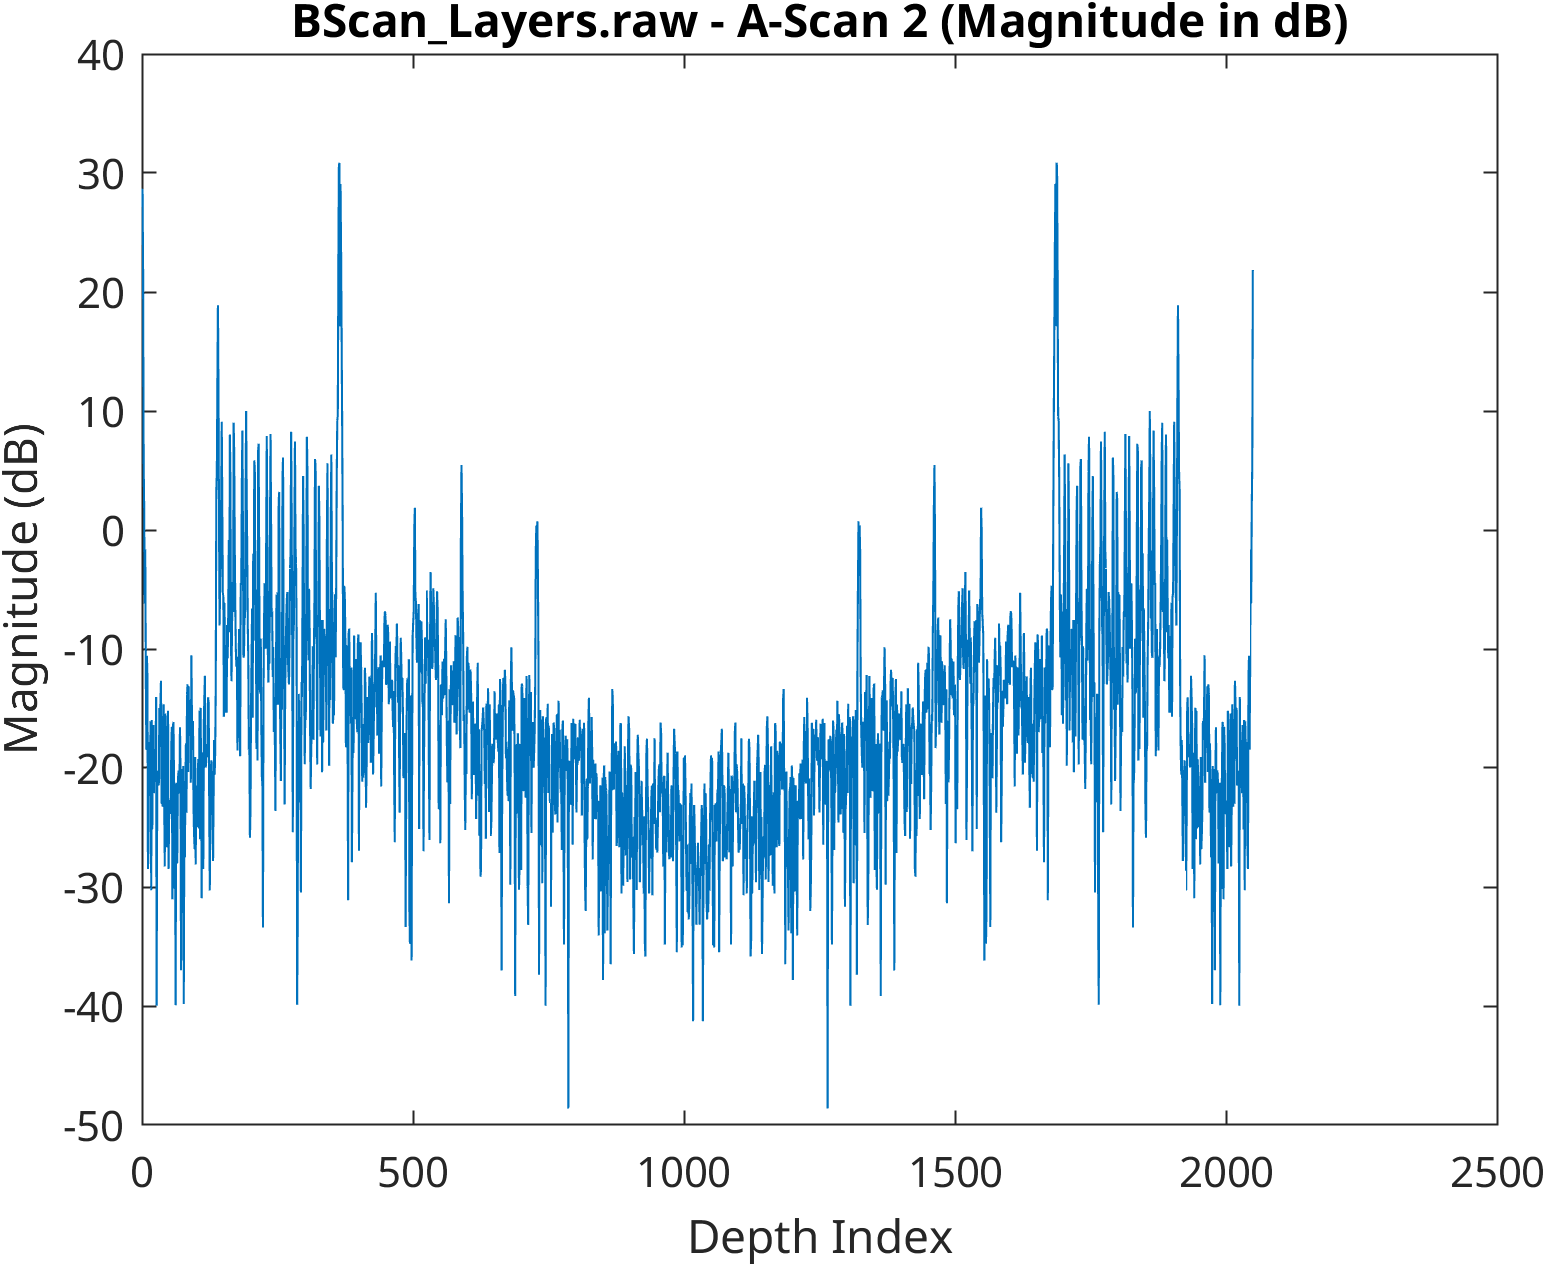
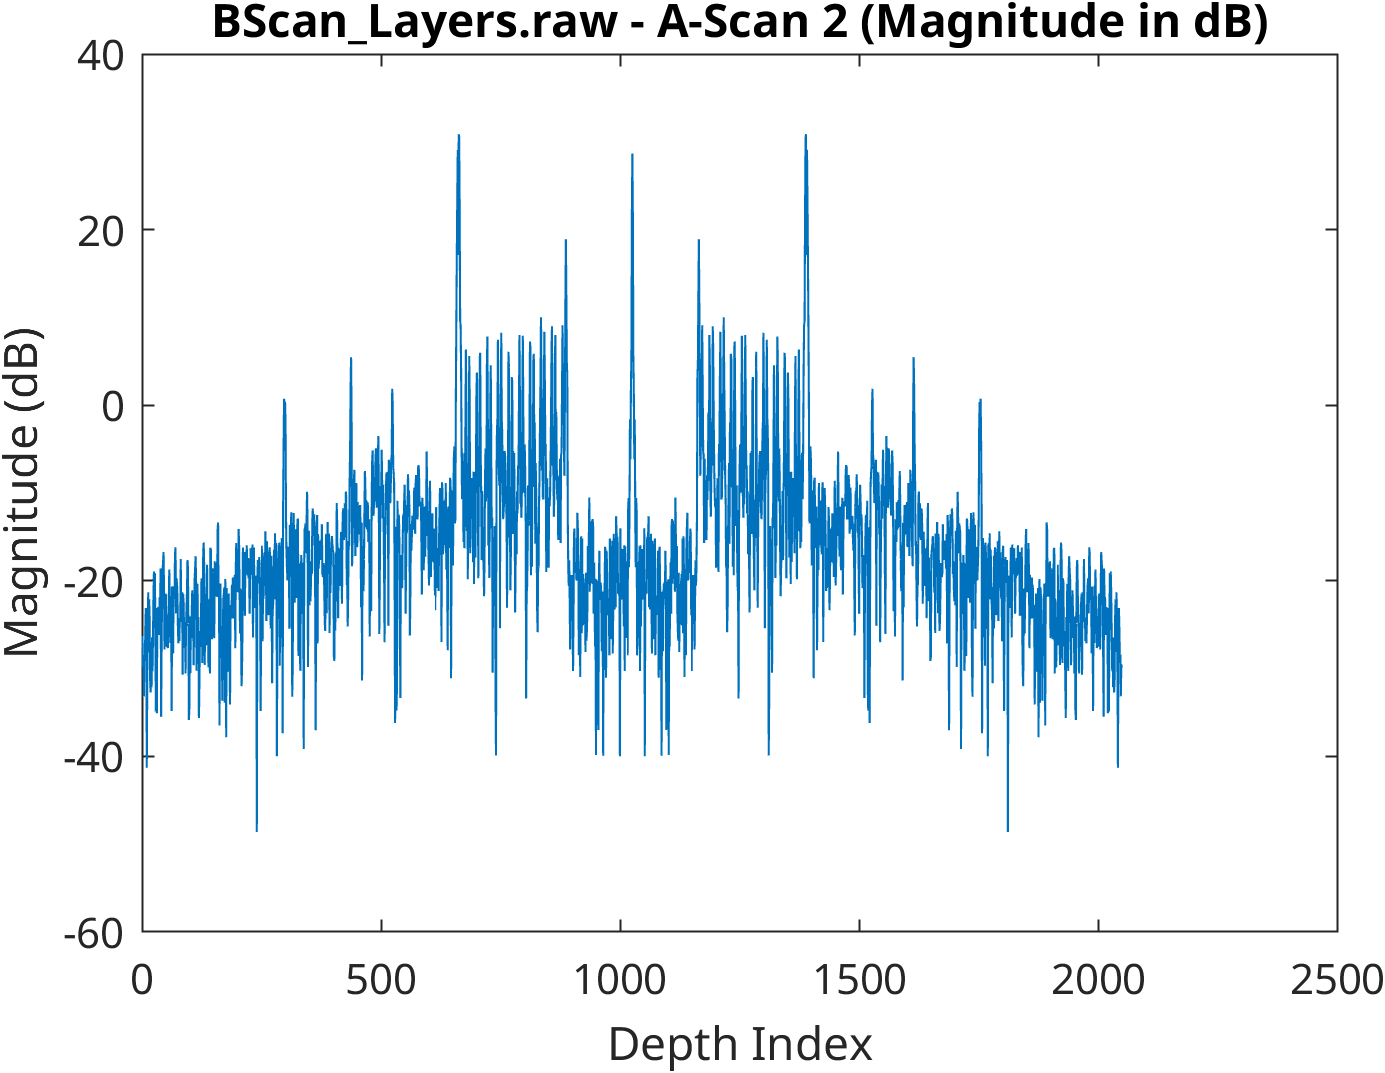
med img a scan

diff --git a/medical-imaging/project_2/the_A_Scan.m b/medical-imaging/project_2/the_A_Scan.m
@@ -17,43 +17,66 @@ load('project-files/L2K.mat', 'L2K');
 fprintf('\nProcessing BScan_Layers.raw...\n');
 [BScan_B, timing_B] = generateBScan(BScan_raw, N_axial, D_BScan, L2K, true, true, true);
 
+fprintf('\nProcessing BScan_Layers.raw with no deconvolution and no background subtraction...\n');
+[Bscan_B_no_deconv_no_bgs, timing_B_no_deconv_no_bgs] = generateBScan(BScan_raw, N_axial, D_BScan, L2K, false, false, false);
+
+fprintf('\nProcessing BScan_Layers.raw with no deconvolution...\n');
+[Bscan_B_no_deconv, timing_B_no_deconv] = generateBScan(BScan_raw, N_axial, D_BScan, L2K, true, false, false);
+
 fprintf('\nProcessing MScan1.raw...\n');
-[BScan_M1, timing_M1] = generateBScan(MScan1_raw, N_axial, D_MScan, L2K, true, true, true);
+[BScan_M1, timing_M1] = generateBScan(MScan1_raw, N_axial, D_MScan, L2K, true, true, false);
 
 fprintf('\nProcessing MScan40.raw...\n');
-[BScan_M40, timing_M40] = generateBScan(MScan40_raw, N_axial, D_MScan, L2K, true, true, true);
+[BScan_M40, timing_M40] = generateBScan(MScan40_raw, N_axial, D_MScan, L2K, true, true, false);
 
 %% Select Example A-Scans for Display
-AScan_B1 = BScan_B(:, D_BScan + 5);   % a few scans past the background region.
-AScan_B2 = BScan_B(:, round((size(BScan_B, 2) + D_BScan) / 2) + 1);
+AScan_B1 = BScan_B(:, D_BScan + 5);
+AScan_BMid = BScan_B(:, round((size(BScan_B, 2) + D_BScan) / 2) + 1);
+AScan_BMid_no_deconv_no_bgs = Bscan_B_no_deconv_no_bgs(:, round((size(Bscan_B_no_deconv_no_bgs, 2) + D_BScan) / 2) + 1);
+AScan_BMid_no_deconv = Bscan_B_no_deconv(:, round((size(Bscan_B_no_deconv, 2) + D_BScan) / 2) + 1);
 AScan_M1 = BScan_M1(:, D_MScan + 5);
 AScan_M40 = BScan_M40(:, D_MScan + 5);
 
-%% Plot the Magnitude (in dB) of the Selected A-Scans
-figure;
-plot(20*log10(abs(AScan_B1)));
-title('BScan\_Layers.raw - A-Scan 1 (Magnitude in dB)');
-xlabel('Depth Index');
-ylabel('Magnitude (dB)');
-exportgraphics(gcf, 'figures/AScan_B1.png', 'Resolution', 300);
+%% Plot
+z = (-N_axial/2:N_axial/2-1);
+figure("Name", "A-Scans");
+tiledlayout(2, 2);
+nexttile;
 
-figure;
-plot(20*log10(abs(AScan_B2)));
-title('BScan\_Layers.raw - A-Scan 2 (Magnitude in dB)');
+plot(z, 20*log10(abs(AScan_B1)));
+axis tight;
+title('BScan Layers - A-Scan 1 [dB]');
 xlabel('Depth Index');
-ylabel('Magnitude (dB)');
-exportgraphics(gcf, 'figures/AScan_B2.png', 'Resolution', 300);
+ylabel('Magnitude [dB]');
 
-figure;
-plot(20*log10(abs(AScan_M1)));
-title('MScan1.raw - A-Scan (Magnitude in dB)');
+nexttile;
+plot(z, 20*log10(abs(AScan_BMid)));
+axis tight;
+title('BScan Layers - A-Scan Mid-Index [dB]');
 xlabel('Depth Index');
-ylabel('Magnitude (dB)');
-exportgraphics(gcf, 'figures/AScan_M1.png', 'Resolution', 300);
+ylabel('Magnitude [dB]');
 
-figure;
-plot(20*log10(abs(AScan_M40)));
-title('MScan40.raw - A-Scan (Magnitude in dB)');
+nexttile;
+plot(z, 20*log10(abs(AScan_M1)));
+axis tight;
+title('MScan1 - A-Scan [dB]');
 xlabel('Depth Index');
-ylabel('Magnitude (dB)');
-exportgraphics(gcf, 'figures/AScan_M40.png', 'Resolution', 300);
+ylabel('Magnitude [dB]');
+
+nexttile;
+plot(z, 20*log10(abs(AScan_M40)));
+axis tight;
+title('MScan40 - A-Scan [dB]');
+xlabel('Depth Index');
+ylabel('Magnitude [dB]');
+
+exportgraphics(gcf, 'figures/AScans.png', 'Resolution', 300);
+
+figure("Name", "A-Scan Processing Comparison");
+plot(z, 20*log10(abs(AScan_BMid)), z, 20*log10(abs(AScan_BMid_no_deconv_no_bgs)), z, 20*log10(abs(AScan_BMid_no_deconv)));
+axis tight;
+xlabel('Depth Index');
+ylabel('Magnitude [dB]');
+legend({'Deconv + BG Subtract', 'No Deconv + No BG Subtract', 'No Deconv + BG Subtract'}, 'Fontsize', 6);
+legend('boxoff');
+exportgraphics(gcf, 'figures/AScan_Processing_Comparison.png', 'Resolution', 300);

diff --git a/medical-imaging/project_2/generateBScan.m b/medical-imaging/project_2/generateBScan.m
@@ -4,12 +4,20 @@ function [B_scan, timing] = generateBScan(detector_current, num_z_pixels, num_bg
     detector_current_reshaped   = reshape(detector_current, num_z_pixels, []);
 
     if verbose
-        tiledlayout(2, 1);
-        nexttile;
+        figure("Name", "B-Scan Processing Steps");
+        steps_fig = tiledlayout('vertical');
+        nexttile(steps_fig);
+        plot(detector_current_reshaped(:,num_bg_scans+1));
+        axis tight;
+        title('Detector Current');
+
+        figure("Name", "Detector Current");
+        detector_current_fig = tiledlayout(2, 1);
+        nexttile(detector_current_fig);
         plot(detector_current_reshaped(:,1));
         axis tight;
         title('Detector Current - Background Scan');
-        nexttile;
+        nexttile(detector_current_fig);
         plot(detector_current_reshaped(:,num_bg_scans+1));
         axis tight;
         title('Detector Current - Imaging Scan');
@@ -20,6 +28,12 @@ function [B_scan, timing] = generateBScan(detector_current, num_z_pixels, num_bg
     data_k = L2K * detector_current_reshaped;
     timing.L2K_conversion = toc(tStart);
     fprintf('L2K conversion time: %.4f sec\n', timing.L2K_conversion);
+    if verbose
+        nexttile(steps_fig);
+        plot(data_k(:,num_bg_scans+1));
+        axis tight;
+        title('Data in k Domain');
+    end
 
     avg_bg = mean(data_k(:, 1:num_bg_scans), 2);
     data_scans = data_k(:, num_bg_scans+1:end);
@@ -30,6 +44,12 @@ function [B_scan, timing] = generateBScan(detector_current, num_z_pixels, num_bg
         data_bs = data_scans - avg_bg;
         timing.bg_subtraction = toc(tStart);
         fprintf('Background subtraction time: %.4f sec\n', timing.bg_subtraction);
+        if verbose
+            nexttile(steps_fig);
+            plot(data_bs(:,1));
+            axis tight;
+            title('Data after Background Subtraction');
+        end
     else
         data_bs = data_scans;
     end
@@ -40,6 +60,12 @@ function [B_scan, timing] = generateBScan(detector_current, num_z_pixels, num_bg
     data_win = data_bs .* window;
     timing.windowing = toc(tStart);
     fprintf('Windowing time: %.4f sec\n', timing.windowing);
+    if verbose
+        nexttile(steps_fig);
+        plot(data_win(:,1));
+        axis tight;
+        title('Data after Windowing');
+    end
 
     %% 4. Deconvolution
     if do_deconv
@@ -50,13 +76,25 @@ function [B_scan, timing] = generateBScan(detector_current, num_z_pixels, num_bg
         data_deconv = data_win ./ smooth_bg;
         timing.deconvolution = toc(tStart);
         fprintf('Deconvolution time: %.4f sec\n', timing.deconvolution);
+        if verbose
+            nexttile(steps_fig);
+            plot(data_deconv(:,1));
+            axis tight;
+            title('Data after Deconvolution');
+        end
     else
         data_deconv = data_win;
     end
 
     %% 6. FFT to Spatial Domain
     tStart = tic;
-    B_scan = fft(data_deconv, [], 1);
+    B_scan = fftshift(fft(data_deconv, [], 1), 1);
     timing.fft = toc(tStart);
     fprintf('FFT time: %.4f sec\n', timing.fft);
+    if verbose
+        nexttile(steps_fig);
+        plot(abs(B_scan(:,1)));
+        axis tight;
+        title('B-Scan - FFT Result');
+    end
 end

diff --git a/medical-imaging/project_2/the_M_Scan.m b/medical-imaging/project_2/the_M_Scan.m
@@ -55,9 +55,8 @@ displacement_M1 = (center_wavelength/(4*pi)) * phase_unwrapped_M1 * 1e9;
 % Time axis for plotting
 t_M1 = (0:length(displacement_M1)-1) * dt;
 
-figure;
+figure("Name", "Displacement vs. Time (MScan1)");
 plot(t_M1, displacement_M1);
-title('Displacement vs. Time (MScan1)');
 xlabel('Time (s)');
 ylabel('Displacement (nm)');
 exportgraphics(gcf, 'figures/Displacement_Time_MScan1.png', 'Resolution', 300);
@@ -67,9 +66,8 @@ N1 = length(displacement_M1);
 f_M1 = (0:N1-1)/(N1*dt);
 displacement_fft_M1 = abs(fft(displacement_M1));
 
-figure;
+figure("Name", "Displacement Frequency Spectrum (MScan1)");
 plot(f_M1, displacement_fft_M1);
-title('Displacement Frequency Spectrum (MScan1)');
 xlabel('Frequency (Hz)');
 ylabel('Amplitude');
 exportgraphics(gcf, 'figures/Displacement_Freq_MScan1.png', 'Resolution', 300);
@@ -81,9 +79,8 @@ phase_unwrapped_M40 = unwrap(angle(time_series_M40));
 displacement_M40 = (center_wavelength/(4*pi)) * phase_unwrapped_M40 * 1e9;
 t_M40 = (0:length(displacement_M40)-1) * dt;
 
-figure;
+figure("Name", "Displacement vs. Time (MScan40)");
 plot(t_M40, displacement_M40);
-title('Displacement vs. Time (MScan40)');
 xlabel('Time (s)');
 ylabel('Displacement (nm)');
 exportgraphics(gcf, 'figures/Displacement_Time_MScan40.png', 'Resolution', 300);
@@ -93,9 +90,8 @@ N40 = length(displacement_M40);
 f_M40 = (0:N40-1)/(N40*dt);
 displacement_fft_M40 = abs(fft(displacement_M40));
 
-figure;
+figure("Name", "Displacement Frequency Spectrum (MScan40)");
 plot(f_M40, displacement_fft_M40);
-title('Displacement Frequency Spectrum (MScan40)');
 xlabel('Frequency (Hz)');
 ylabel('Amplitude');
 exportgraphics(gcf, 'figures/Displacement_Freq_MScan40.png', 'Resolution', 300);
